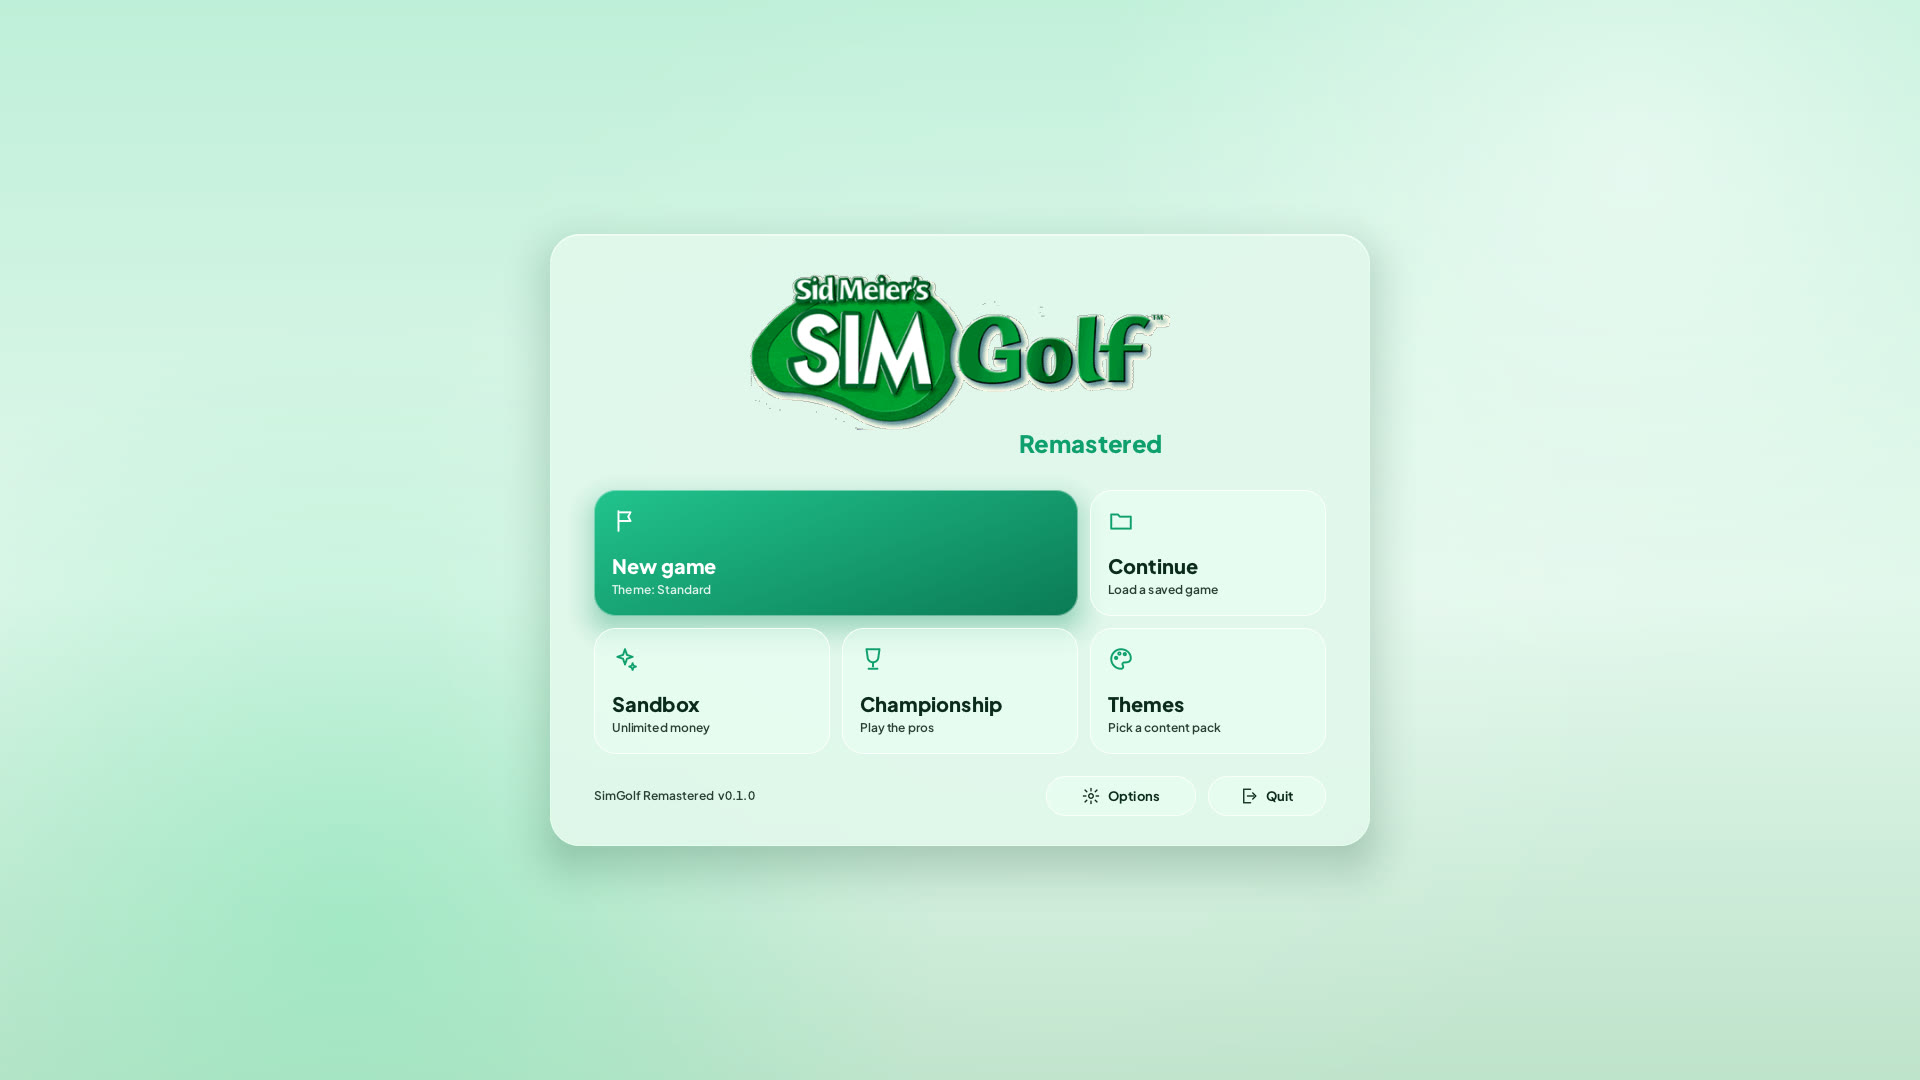
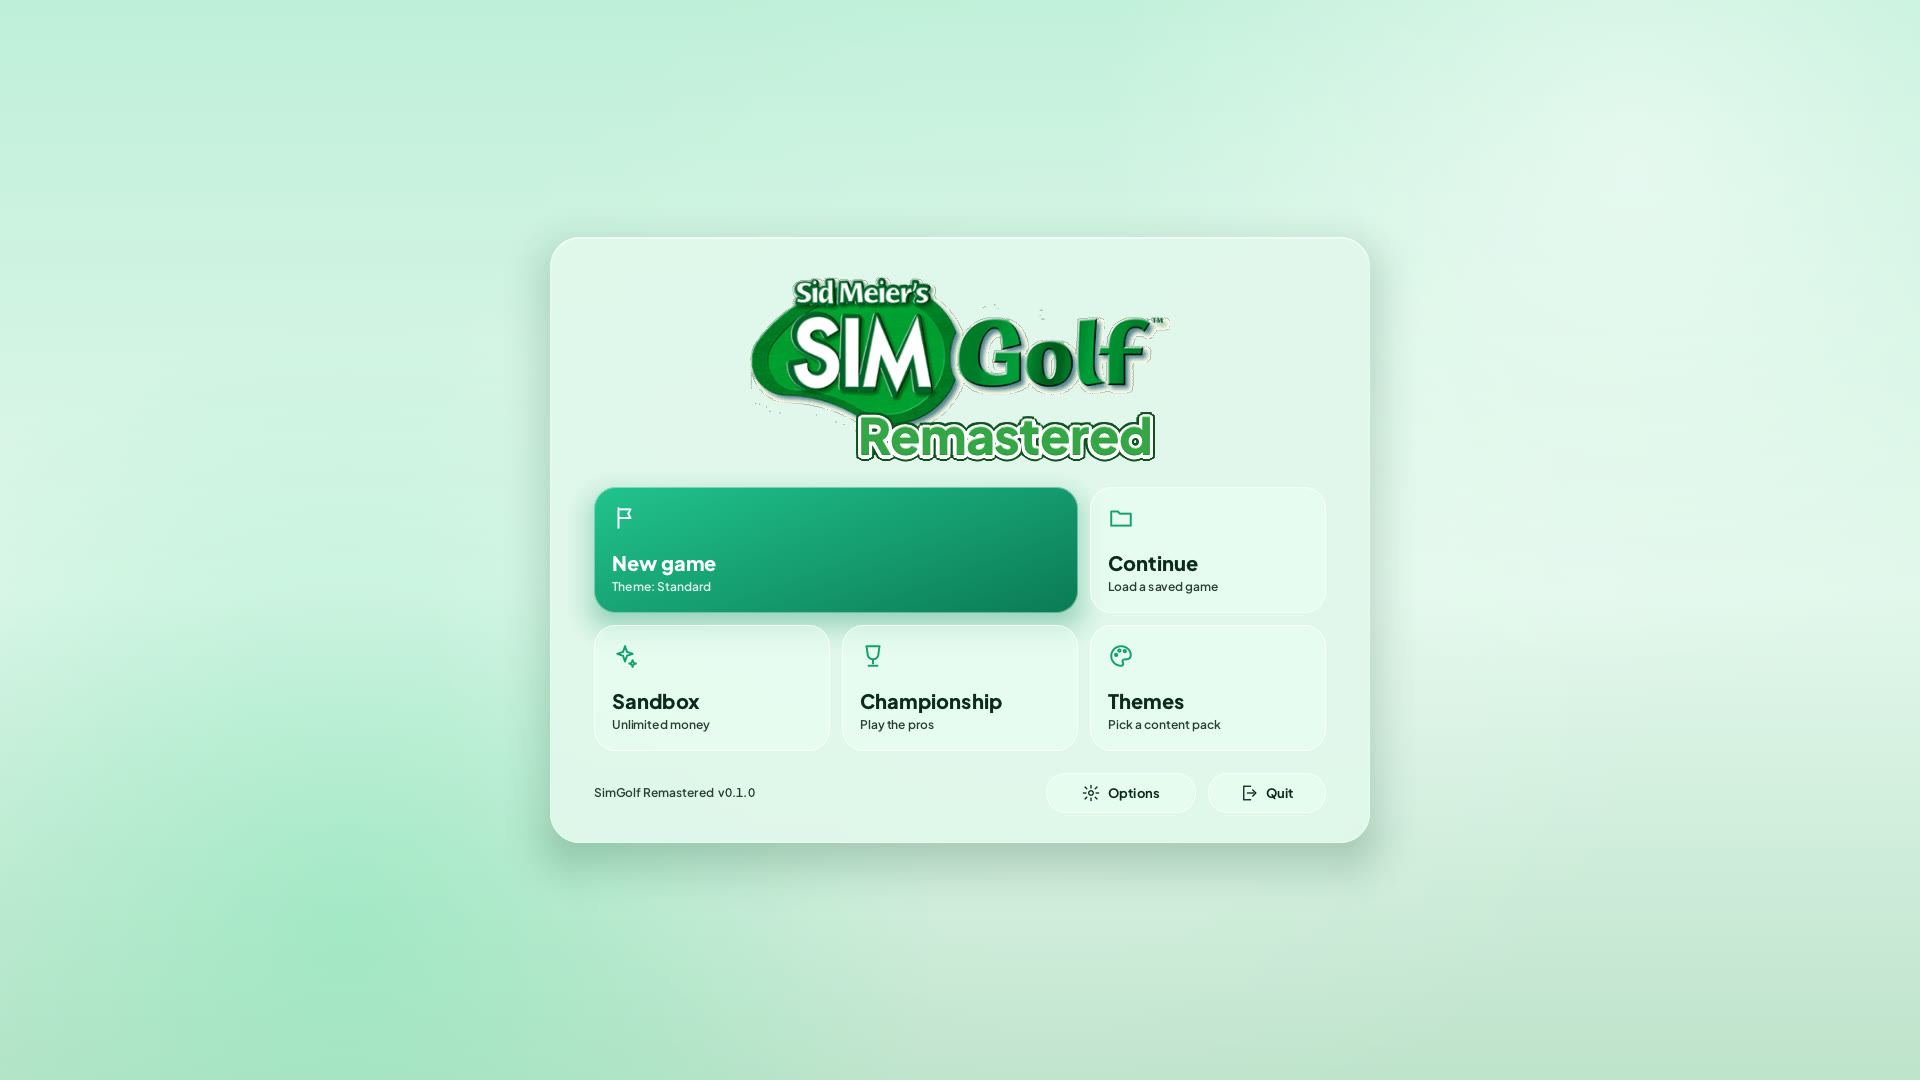
SimGolf Remastered 0.1.0

diff --git a/port/src/port/ui/ui_frontend.c b/port/src/port/ui/ui_frontend.c
@@ -1,5 +1,6 @@
 // Frosted Mint front end (task-32): see ui_frontend.h.
 #include "port/ui/ui_frontend.h"
+#include "port/ui/ui_text.h"
 
 #include <math.h>
 #include <stdio.h>
@@ -174,7 +175,7 @@ static int draw_title(Scene *s, const FeSnap *snap, SDL_Texture *const *art, FeA
     logo_h = logo_w * th / (float)tw;
   }
   float tile_h = 126, gap = 12;
-  const float rem_h = 40;   // task-80: the "Remastered" line under the logo
+  const float rem_h = 34;   // task-80: room for "Remastered", which overlaps the logo's bottom edge
   float ph = 40 + logo_h + rem_h + 20 + tile_h * 2 + gap + 22 + 40 + 30;
   UiRect p = R(s, (1920 - PW) / 2, (1080 - ph) / 2, PW, ph);
   ui_panel(c, p, U(s, t->radius_panel), UI_PANEL_READABLE);
@@ -185,9 +186,28 @@ static int draw_title(Scene *s, const FeSnap *snap, SDL_Texture *const *art, FeA
     UiRect lr = R(s, (1920 - logo_w) / 2, (1080 - ph) / 2 + 40, logo_w, logo_h);
     ui_text_in(c, lr, UI_TYPE_DISPLAY, t->text_primary, "SimGolf", 0.5f);
   }
-  // task-80: "Remastered" tucked under the right half of the logo, in the accent green.
-  ui_text_in(c, R(s, (1920 - logo_w) / 2, (1080 - ph) / 2 + 40 + logo_h - 6, logo_w - 8, rem_h), UI_TYPE_TITLE, t->accent,
-             "Remastered", 1.0f);
+  // task-80: "Remastered" styled like the logo's lettering (heavy green letters, white rim, dark green
+  // edge and drop shadow), tucked up into the bottom right of the logo so it reads as part of it.
+  {
+    UiText *tx = ui_texter(c);
+    const char *word = "Remastered";
+    float px = 50 * s->u, rim = 3.2f * s->u, edge = 5.4f * s->u;
+    float w = uit_measure(tx, 800, px, word, -0.01f);
+    float x = s->S.x + ((1920 + logo_w) / 2 - 18) * s->u - w;
+    float base = s->S.y + ((1080 - ph) / 2 + 40 + logo_h + 22) * s->u;
+    const UiColor shadow = {6, 48, 18, 110}, dark = {12, 82, 30, 255}, white = {255, 255, 255, 255}, green = {38, 150, 58, 255};
+    uit_draw(tx, x + 2 * s->u, base + 4 * s->u, 800, px, word, -0.01f, shadow);
+    for (int i = 0; i < 16; i++) {   // dark outer edge, then the white rim, sampled around a circle
+      float a = i * 0.3927f;
+      uit_draw(tx, x + cosf(a) * edge, base + sinf(a) * edge, 800, px, word, -0.01f, dark);
+    }
+    for (int i = 0; i < 16; i++) {
+      float a = i * 0.3927f;
+      uit_draw(tx, x + cosf(a) * rim, base + sinf(a) * rim, 800, px, word, -0.01f, white);
+    }
+    uit_draw(tx, x, base, 800, px, word, -0.01f, green);
+    uit_draw(tx, x, base - 1.2f * s->u, 800, px, word, -0.01f, (UiColor){70, 182, 84, 120});   // light top edge, like the logo bevel
+  }
   float gx = (1920 - PW) / 2 + PAD, gy = (1080 - ph) / 2 + 40 + logo_h + rem_h + 20;
   float gw = PW - 2 * PAD, tw3 = (gw - 2 * gap) / 3;
   char sub[64];
